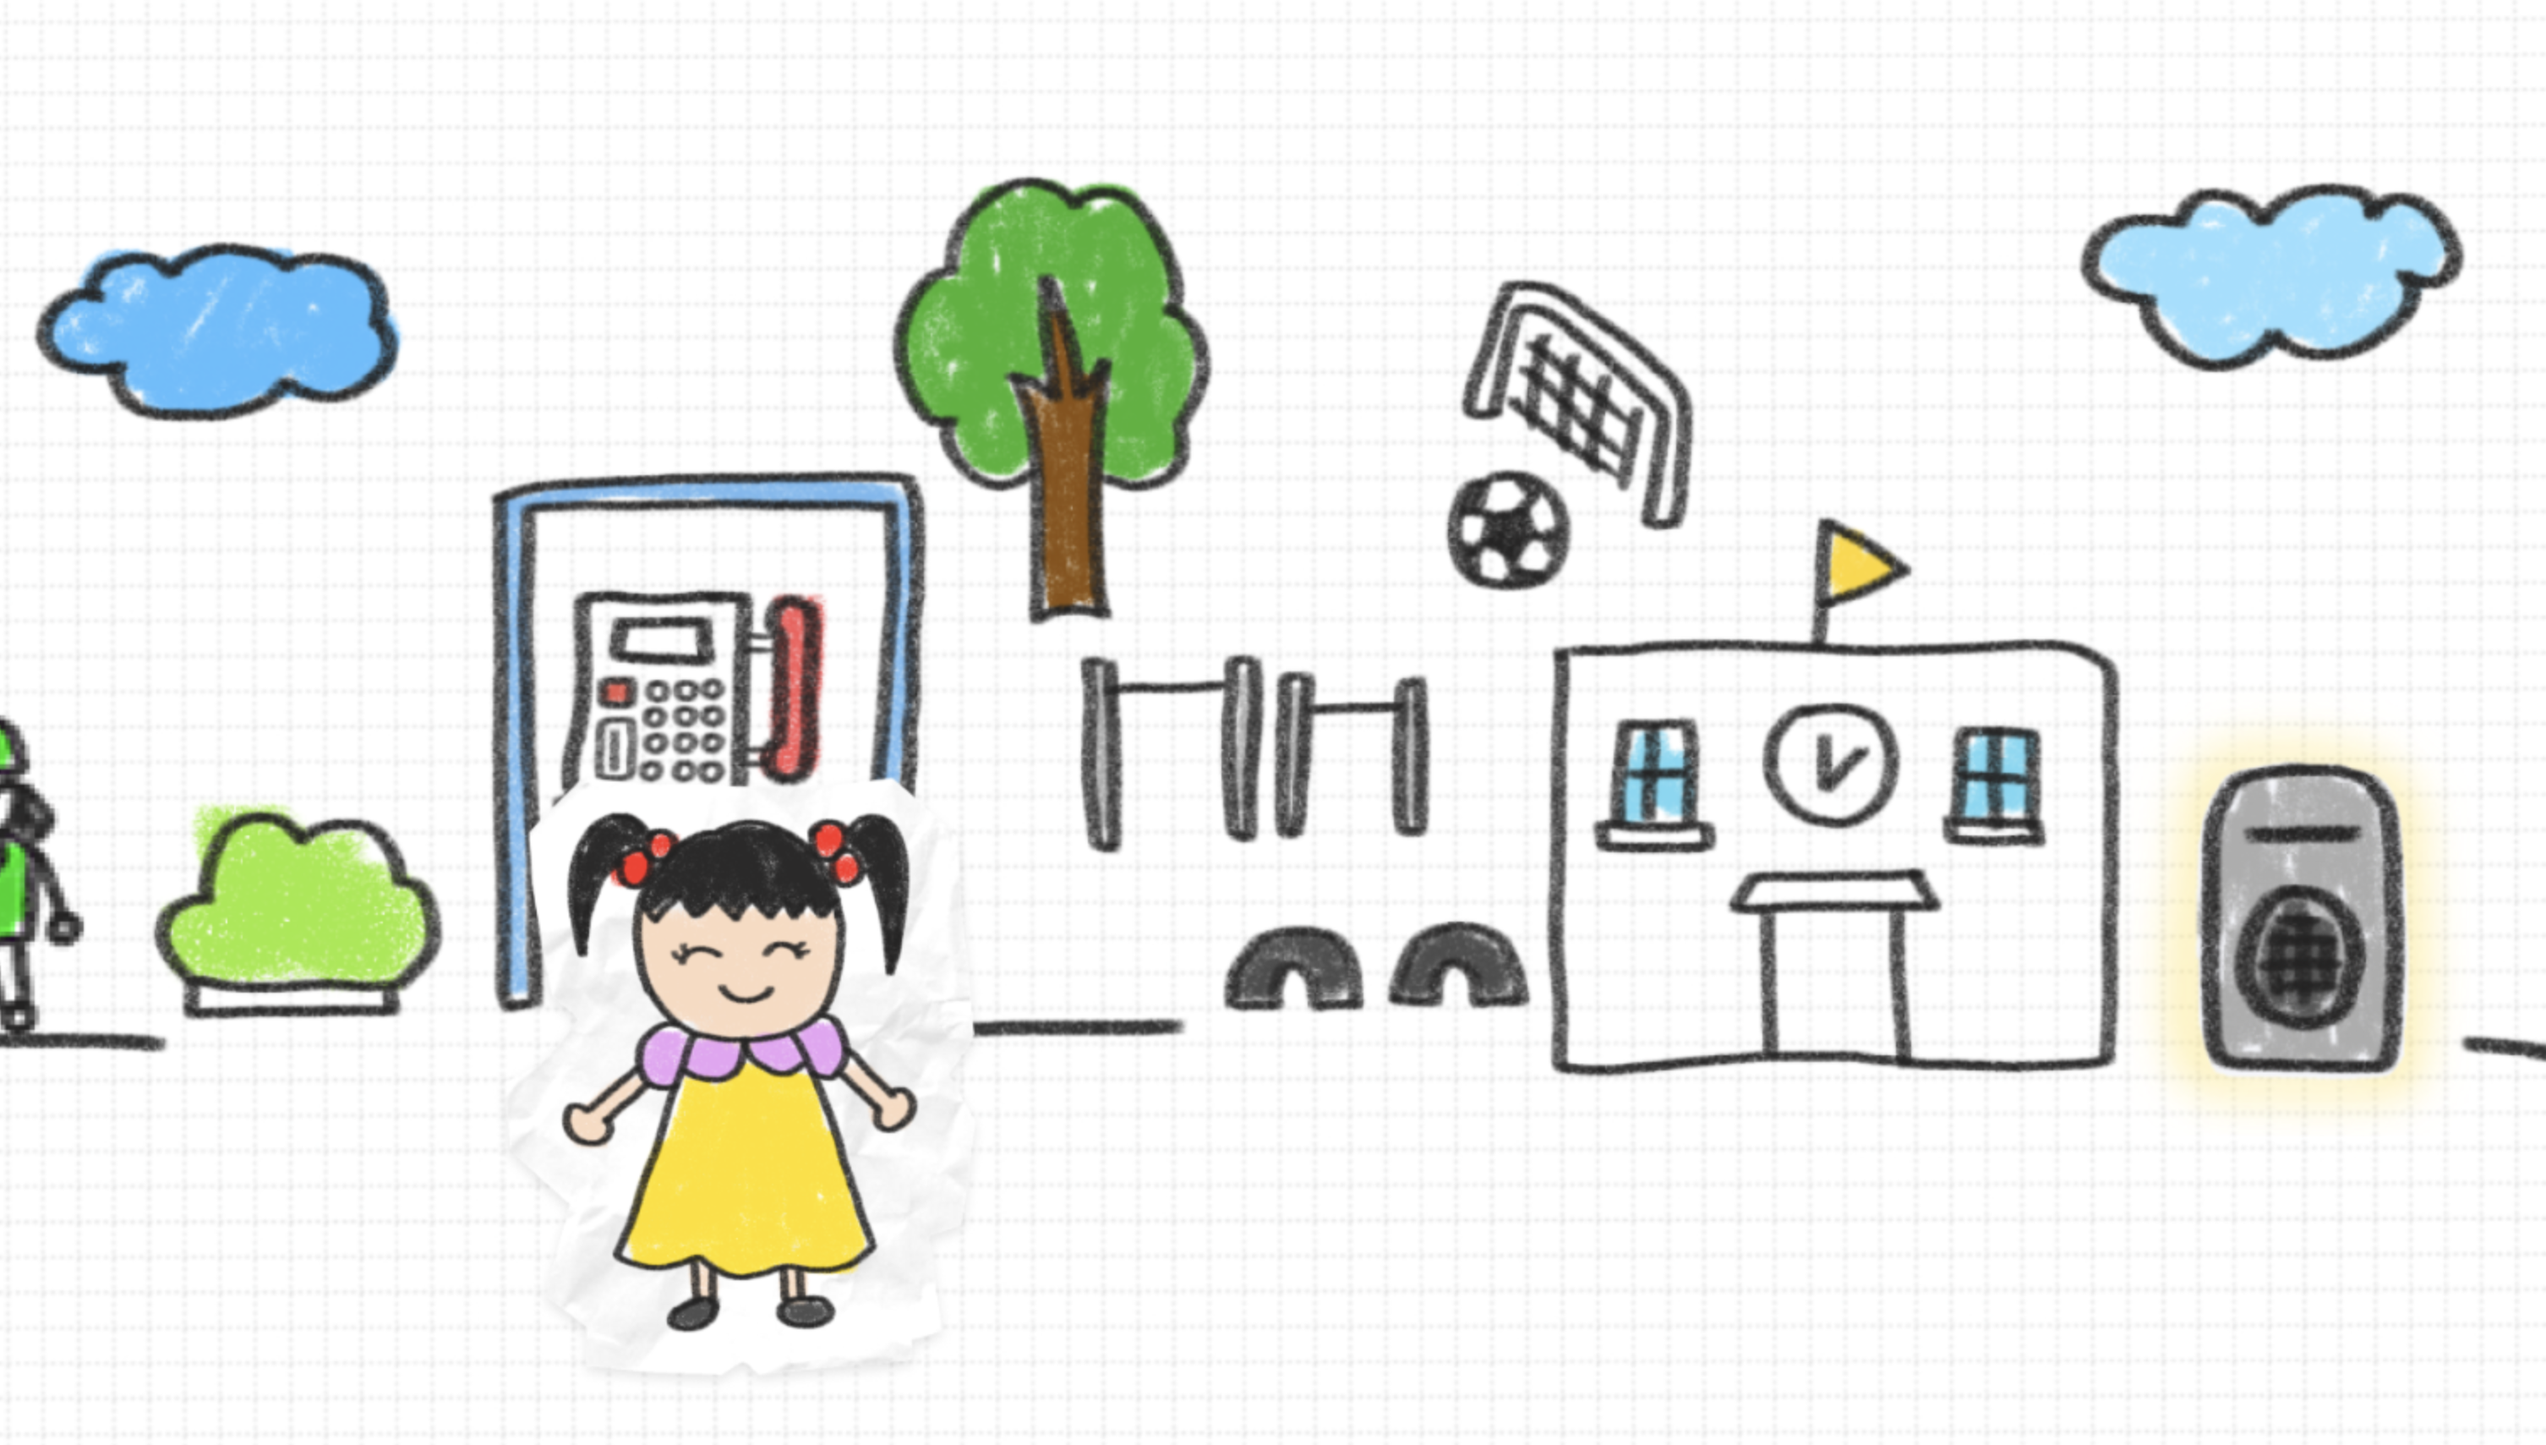
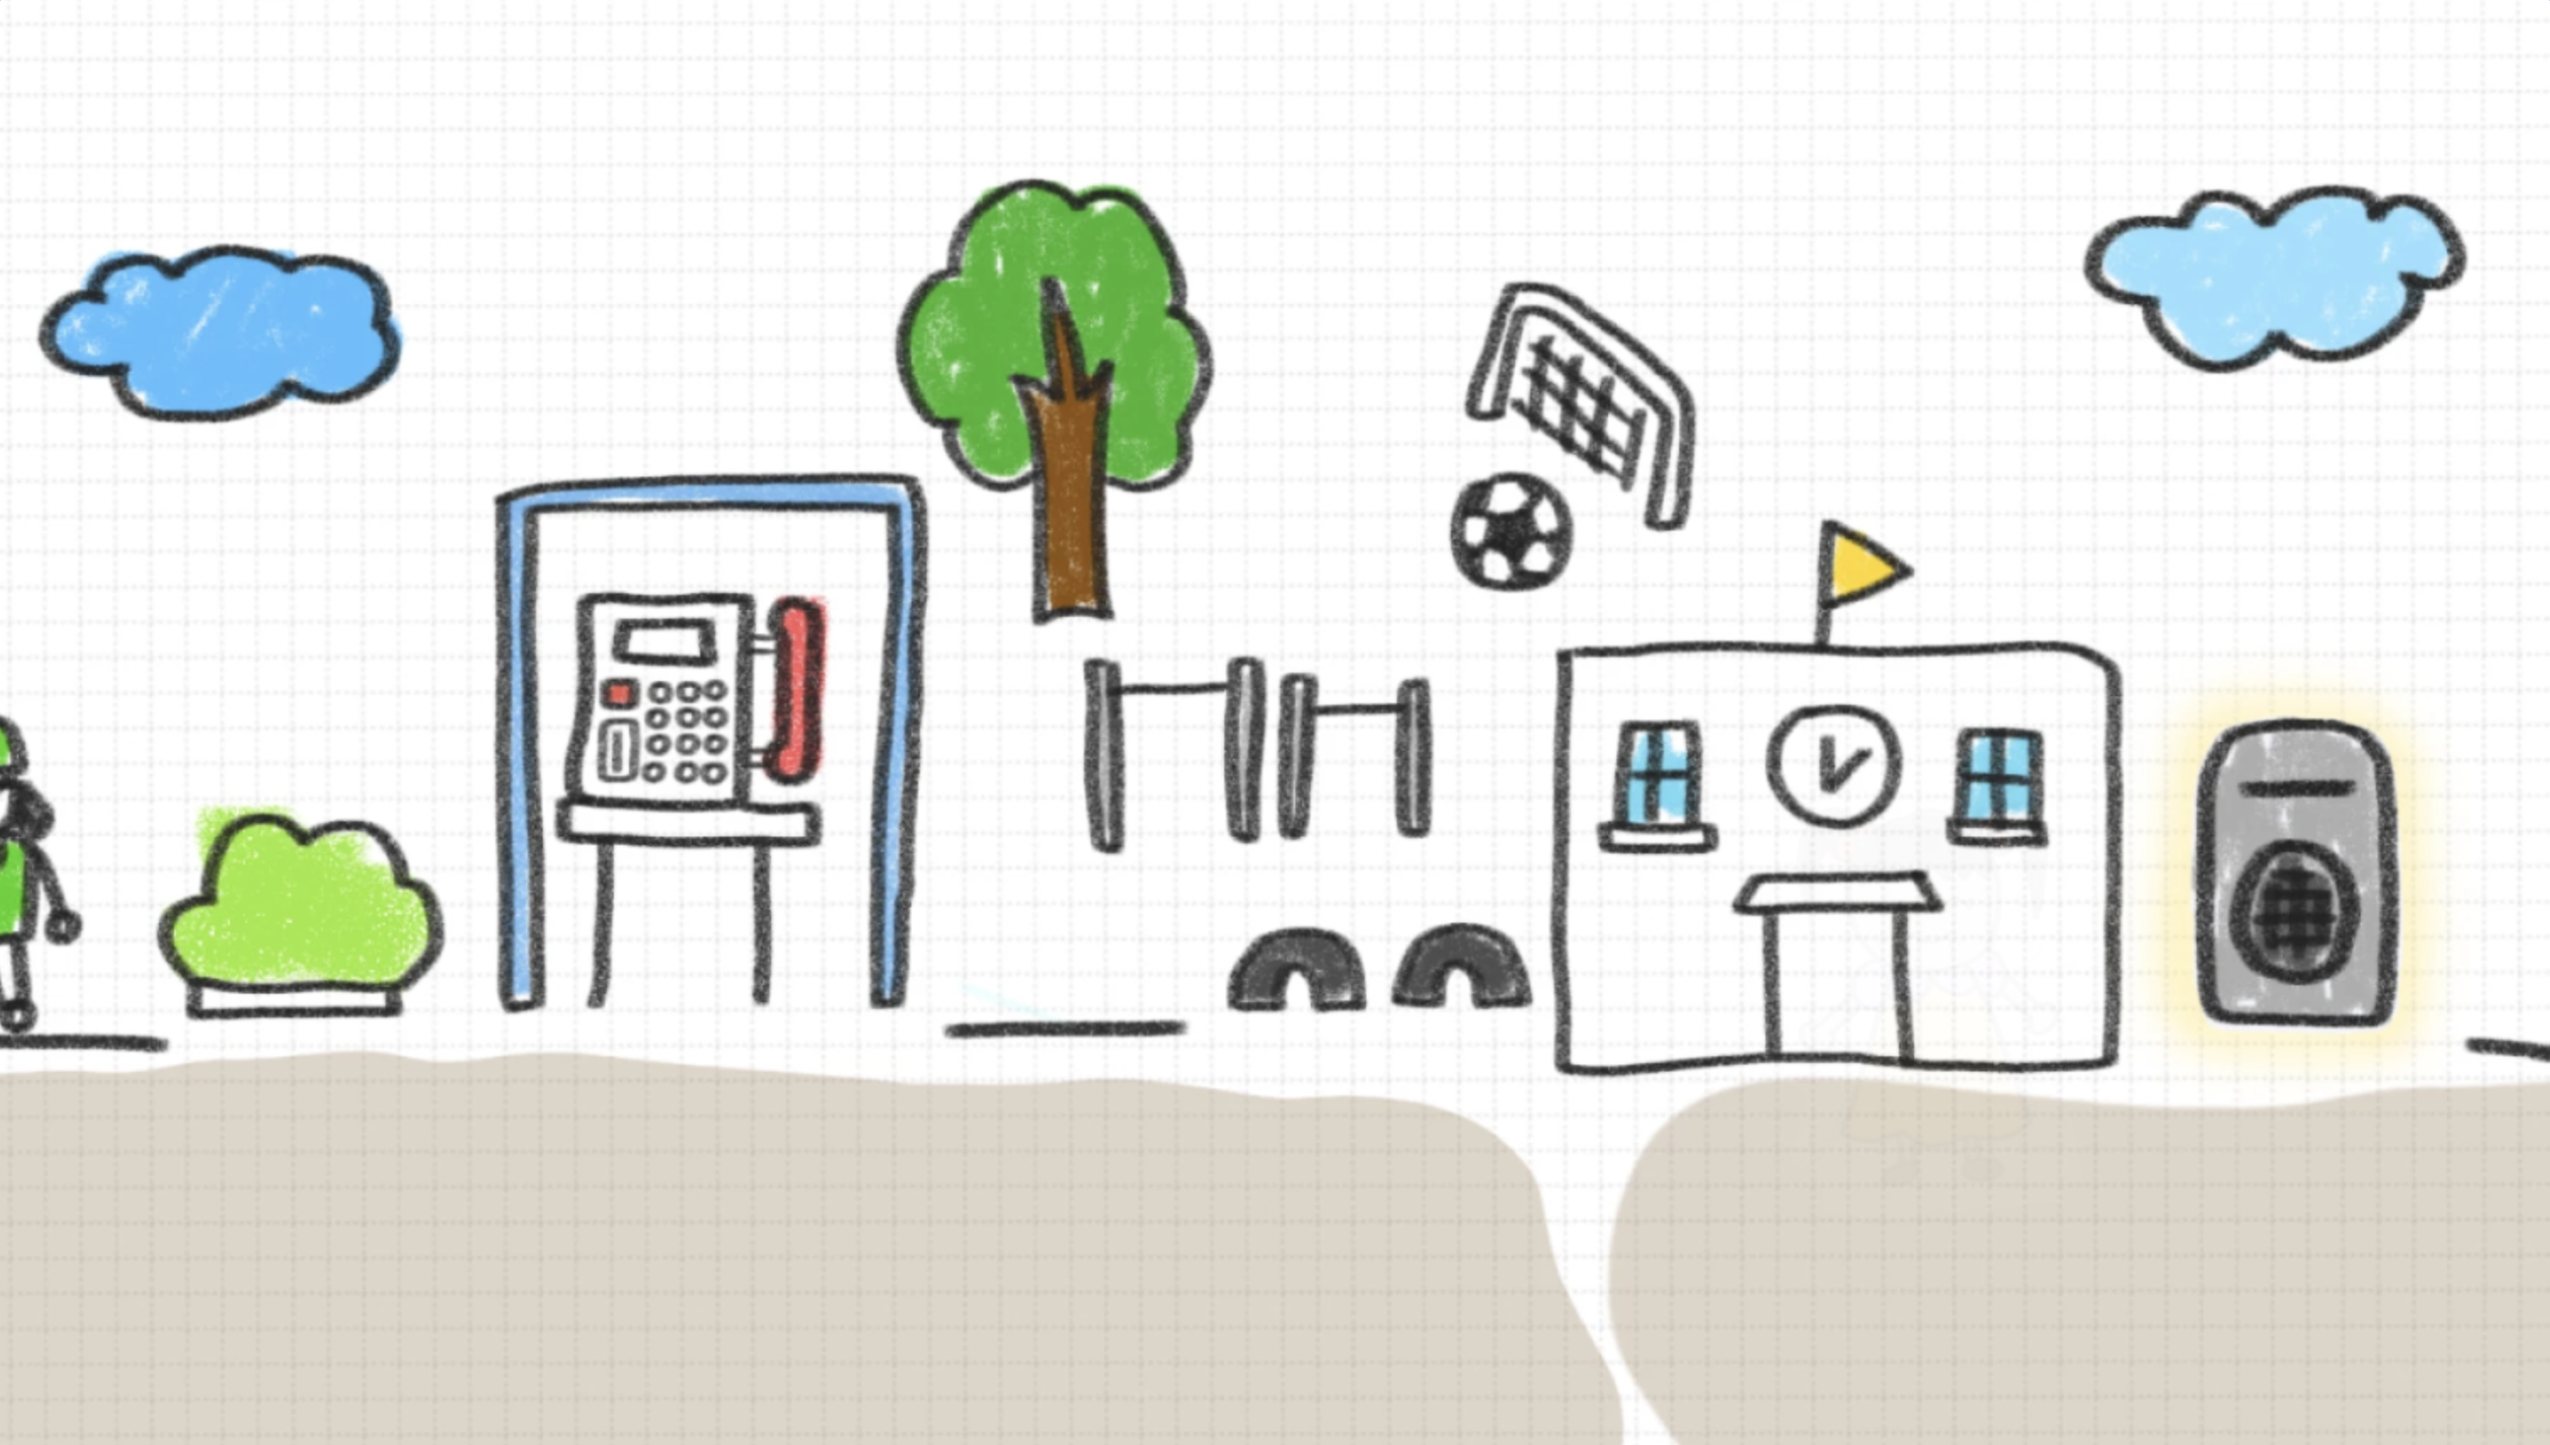
🐛Fix: 맵1 배경에 이미지 삽입 및 drawImage 계산량 감소

diff --git a/src/Pages/Map1.jsx b/src/Pages/Map1.jsx
@@ -1,0 +1,359 @@
+import React, { useRef, useState, useEffect, useCallback } from "react";
+import { useNavigate } from "react-router-dom";
+import styled, { keyframes } from "styled-components";
+import { throttle } from "lodash";
+
+// import bgImage from "../sources/images/Map/map1/map1.webp";
+import bgImage2 from "../sources/images/Map/map1/greenBg.webp";
+import bgImage3 from "../sources/images/Map/map1/redBg.webp";
+import characterImage from "../sources/images/Map/girl/girl.png";
+import characterImage2 from "../sources/images/Map/boy.png";
+import dateFormatImg from "../sources/images/Map/dateFormat.png";
+import smog1Img from "../sources/images/Map/map1/smog1.png";
+import smog2Img from "../sources/images/Map/map1/smog2.png";
+import carImg from "../sources/images/Map/map1/car.png";
+import notesImg from "../sources/images/Map/map1/notes.png";
+import loading1 from "../sources/images/MP3.gif";
+
+import CharacterMoveArr from "../utils/CharacterMoveArr";
+const FRAMES_LENGTH = 40;
+const CW = 5000;
+const CH = 1024;
+
+export default function Map1({ sex }) {
+  // 캔버스 크기 관련
+  const [windowSize, setWindowSize] = useState({
+    width: window.innerWidth,
+    height: window.innerHeight,
+  });
+  const resizeHandler = useCallback(() => {
+    setWindowSize({
+      width: window.innerWidth,
+      height: window.innerHeight,
+    });
+  }, []);
+
+  useEffect(() => {
+    window.addEventListener("resize", resizeHandler);
+    return () => {
+      // 중복 이벤트 방지용 클린업
+      window.removeEventListener("resize", resizeHandler);
+    };
+  });
+
+  const canvasRef = useRef(null);
+  const canvasRef2 = useRef(null);
+  const requestAnimationRef = useRef(null);
+
+  const navigator = useNavigate();
+
+  const [round, setRound] = useState(false);
+  const [moveStart, setMoveStart] = useState(false);
+  const [smogStop, setSmogStop] = useState(false);
+
+  const [background, setBackground] = useState({ x: 0, y: 0 });
+  const bg = new Image();
+  bg.src = bgImage2;
+
+  // 계산 줄이기용 변수
+  const bgWidth = bg.width;
+  const bgHeight = bg.height;
+  const canvasWidth = windowSize.width;
+  const canvasHeight = windowSize.height;
+  const ratio = canvasHeight / bgHeight;
+  const val = bgWidth * ratio;
+
+  const [characterFrame, setCharacterFrame] = useState(0);
+
+  const character = [
+    (188 / CW) * val,
+    (498 / CH) * canvasHeight,
+    (330 / CW) * val,
+    (392 / CH) * canvasHeight,
+  ];
+  const characterSex = sex;
+
+  const [characterMoveX, setCharacterMoveX] = useState();
+  const characterEndX = 188 / CW;
+  const [characterMove, setCharacterMove] = useState(0);
+
+  const [trafficLightStatus, setTrafficLightStatus] = useState("red");
+
+  const [carCoor, setCarCoor] = useState({ x: 1600, y: 468 });
+  const carCoorX = 2602 / CW;
+  const car = new Image();
+  car.src = carImg;
+  const carSize = { w: car.width / CW, h: car.height / CH };
+
+  const [loading, setLoading] = useState(false);
+  // 캐릭터 이동 관련 state
+  const [pressedKey, setPressedKey] = useState(null);
+  const [stop, setStop] = useState(false);
+  const [smogPos, setSmogPos] = useState(0);
+
+  useEffect(() => {
+    if (!canvasRef.current) return;
+    canvasRef.current.focus();
+    canvasRef.current.addEventListener("keydown", (e) => {
+      e.preventDefault();
+      setPressedKey(e.key);
+    });
+    canvasRef.current.addEventListener("keyup", () => setPressedKey(null));
+    requestAnimationRef.current = requestAnimationFrame(render);
+
+    // 클릭 감지
+    const handleCanvasClick = (e) => {
+      const canvas = canvasRef.current;
+      const context = canvas.getContext("2d");
+
+      let x = e.clientX - context.canvas.offsetLeft;
+      let y = e.clientY - context.canvas.offsetTop;
+    };
+    canvasRef.current.addEventListener("click", handleCanvasClick);
+    return () => {
+      cancelAnimationFrame(requestAnimationRef.current);
+    };
+  });
+
+  // 게임 화면 라우팅
+  useEffect(() => {
+    if (background.x <= -(val - windowSize.width)) {
+      setStop(true);
+      setCharacterMove(1);
+    }
+  }, [background]);
+
+  useEffect(() => {
+    if (characterMove === 2) {
+      navigator("/music");
+    }
+  }, [characterMove]);
+
+  useEffect(() => {
+    if (round) {
+      cancelAnimationFrame(requestAnimationRef.current);
+      setLoading(true);
+
+      setInterval(() => {
+        navigator("/music");
+      }, 1000);
+    }
+  }, [round]);
+
+  // 렌더링 함수
+  const render = () => {
+    // navigator 실행되면 canvasRef.current가 null이 되므로 이때는 함수 종료
+    if (!canvasRef.current) return;
+    setCharacterFrame((prev) => (prev < FRAMES_LENGTH ? prev + 1 : 0));
+    drawBg();
+
+    if (!characterMove) {
+      drawCharacter();
+    }
+    drawCar();
+    setSmogPos(background.x);
+    if (characterMove !== 1) {
+      handleMove();
+    }
+    requestAnimationRef.current = requestAnimationFrame(render);
+  };
+
+  // 배경 그리기
+  const drawBg = () => {
+    const canvas = canvasRef.current;
+    const context = canvas.getContext("2d");
+
+    const bg = new Image();
+    if (trafficLightStatus === "green") {
+      bg.src = bgImage2;
+    } else {
+      bg.src = bgImage3;
+    }
+
+    bg.onload = () => {
+      context.drawImage(bg, background.x, background.y, val, canvasHeight);
+    };
+
+    // 스피커 음표 애니메이션
+    const notesImage = new Image();
+    notesImage.src = notesImg;
+  };
+
+  // 캐릭터 그리기
+  const drawCharacter = () => {
+    const canvas = canvasRef.current;
+    const context = canvas.getContext("2d");
+
+    const characterImg = new Image();
+    if (pressedKey !== null) {
+      characterImg.src = CharacterMoveArr[characterFrame];
+    } else {
+      characterImg.src = characterImage;
+    }
+
+    characterImg.onload = () => {
+      context.drawImage(
+        characterImg,
+        character[0],
+        character[1],
+        character[2],
+        character[3]
+      );
+    };
+  };
+
+  // 차 그리기
+  const drawCar = () => {
+    const canvas = canvasRef.current;
+    const context = canvas.getContext("2d");
+
+    const carImage = new Image();
+    carImage.src = carImg;
+
+    carImage.onload = () => {
+      if (background.x < (-1500 / CW) * val) {
+        setStop(true);
+        context.drawImage(
+          carImage,
+          background.x + carCoorX * val,
+          carCoor.y,
+          carSize.w * val,
+          carSize.h * canvasHeight
+        );
+        if (carCoor.y > canvas.height) {
+          setTrafficLightStatus("green");
+
+          setStop(false);
+        }
+        setCarCoor({ ...carCoor, y: carCoor.y + 2 });
+      } else {
+        context.drawImage(
+          carImage,
+          background.x + carCoorX * val,
+          (carCoor.y / CH) * canvasHeight,
+          carSize.w * val,
+          carSize.h * canvasHeight
+        );
+      }
+    };
+  };
+
+  // 캐릭터 이동
+  const v = 5;
+  const handleMove = () => {
+    switch (pressedKey) {
+      case "ArrowLeft":
+        if (background.x < 0) {
+          if (stop) {
+            setBackground({ ...background });
+          } else {
+            setBackground({ ...background, x: background.x + v });
+          }
+        }
+        return;
+      case "ArrowRight":
+        if (background.x + val > canvasRef.current.width) {
+          if (stop) {
+            setBackground({ ...background });
+          } else {
+            setBackground({ ...background, x: background.x - v });
+          }
+        } else {
+          setStop(true);
+        }
+        return;
+    }
+  };
+  const handleAnimation = () => {
+    setCharacterMove(2);
+  };
+  return (
+    <>
+      {loading ? (
+        <Loading>
+          <LoadingImg src={loading1} />
+        </Loading>
+      ) : (
+        <MapContainer>
+          {pressedKey ? null : <Date src={dateFormatImg} />}
+          {characterMove === 1 ? (
+            <Character
+              src={CharacterMoveArr[characterFrame]}
+              width={character[2]}
+              onAnimationEnd={handleAnimation}
+            />
+          ) : null}
+          <CanvasContainer>
+            <Canvas
+              ref={canvasRef}
+              width={windowSize.width}
+              height={windowSize.height}
+              tabIndex={0}
+            />
+            {/* <Canvas
+              ref={canvasRef2}
+              width={windowSize.width}
+              height={windowSize.height}
+            /> */}
+          </CanvasContainer>
+        </MapContainer>
+      )}
+    </>
+  );
+}
+
+const MapContainer = styled.div``;
+const Date = styled.img`
+  width: 50vw;
+  position: absolute;
+  top: 0;
+  left: 0;
+  z-index: 100;
+`;
+const translate = keyframes`
+  0%{
+    transform:  translateX(0px);
+    opacity: 100%;
+  }
+  50%{
+    transform:  translateX(750px);
+    opacity: 100%;
+  }
+  100% {
+    transform:  translateX(800px);
+    opacity: 0;
+  }
+  
+`;
+const Character = styled.img`
+  position: absolute;
+  bottom: 13vh;
+  left: 13vw;
+  z-index: 100;
+  animation: ${translate} 2.5s linear forwards;
+  animation-delay: 2s;
+`;
+const CanvasContainer = styled.div`
+  position: relative;
+`;
+const Canvas = styled.canvas`
+  position: absolute;
+  top: 0px;
+  left: 0px;
+  width: 100vw;
+  height: 100vh;
+  background-color: transparent;
+  overflow-y: hidden;
+`;
+const Loading = styled.div`
+  width: 100vw;
+  height: 100vh;
+  display: flex;
+  justify-content: center;
+  align-items: center;
+  background-color: black;
+`;
+
+const LoadingImg = styled.img`
+  width: 100%;
+`;
